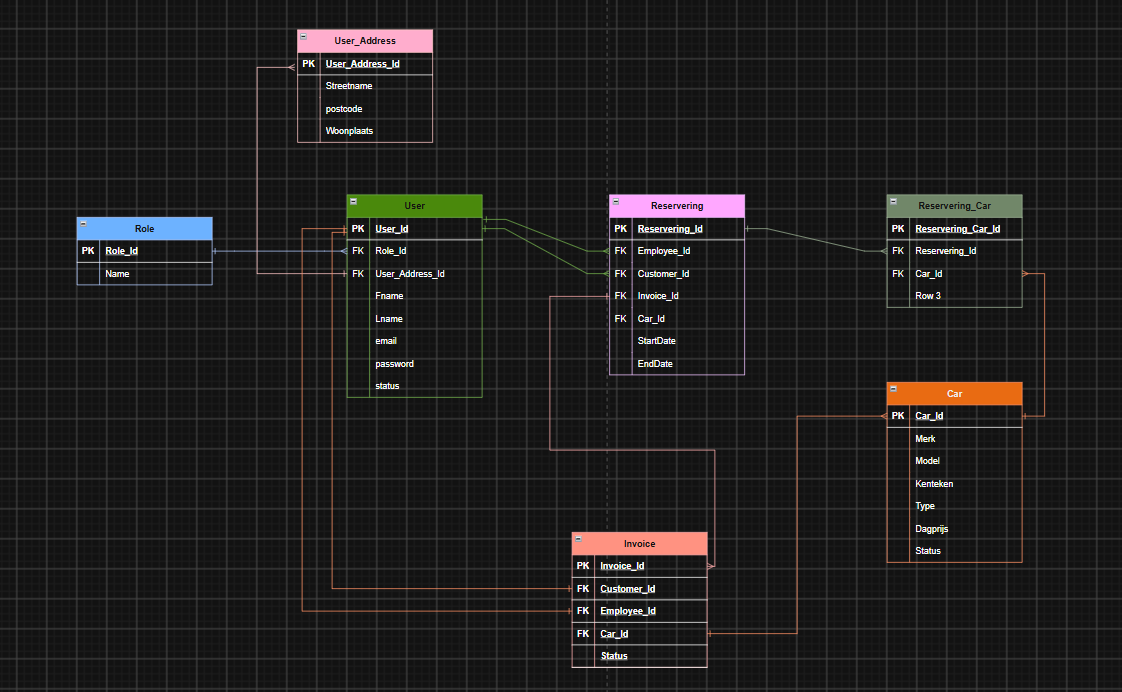
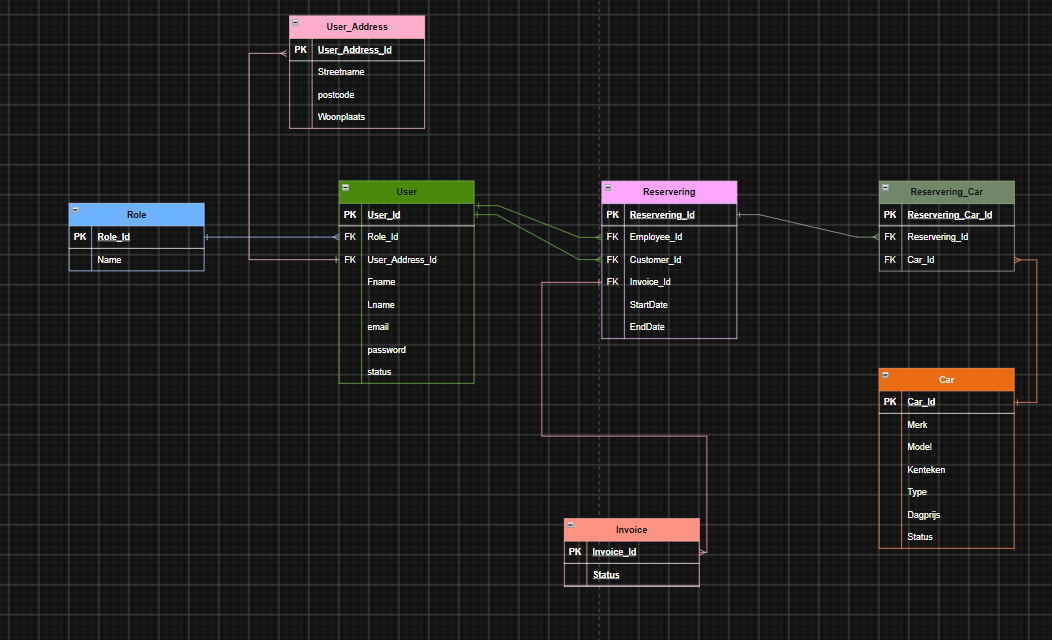
Kleine verbeteringen aan mijn ERD en pva delen

diff --git a/PVA.md b/PVA.md
@@ -42,7 +42,10 @@ Stijn: Klant
 ## Opdrachts beschrijving
 Gemaakt door: Stijn
 
-Voor de casus die we van meneer Asbreuk hebben gekregen is het de bedoeling dat wij een werkende C# applicatie opleveren gebouwd in Windows Forms, deze applicatie moet connected zijn met een SQL-database. De applicatie moet ontwikkeld worden vanuit het perspectief van 3 kanten; klant, medewerker, beheerder. Hierbij heeft elke kant zijn eigen onderdelen en obstakels.
+Voor de casus die we van meneer Asbreuk hebben gekregen is het de bedoeling dat wij een werkende C# applicatie opleveren gebouwd in Windows Forms, deze applicatie moet connected zijn met een SQL-database. 
+De applicatie moet ontwikkeld worden vanuit het perspectief van 3 kanten: 
+klant, medewerker, beheerder. 
+Hierbij heeft elke kant zijn eigen onderdelen en obstakels.
 
 
 ## Functioneel ontwerp
@@ -102,6 +105,8 @@ Gemaakt door: Wiebe
 	- C#
 	- MySQL 
 	- Git en github
+	- Visual studio
+	- Laptop met ssd en internet
 	
 ### Omschrijving
 Het moet een C# winforms applicatie worden die data ophaalt uit een mysql database.  
@@ -127,7 +132,6 @@ Verwijderen van dingen moet net zoals Laravel's "SoftDelete" werken, oftewel:
 - Factuur moet aangemaakt worden en een pdf invoice maken met QuestPDF library.  
 - Factuur moet dan in mysql worden opgeslagen.  
 - Factuur moet een unieke ID krijgen, willekeurige reeks van 8 karakters (a-z, A-Z, 0-9, en '!' etc)
-resultaat daarvan is 8^72=1.0531229166855719e+65 combinaties
 
 ### Beveiliging
 Gebruikers moeten alleen bij hun eigen data kunnen.
@@ -152,10 +156,10 @@ Gemaakt door: Wiebe
 | Risico | Gevolg | Maatregel |
 |:--:|:--:|:--:|
 | Merge conflict | Programma stopt met werken | Aparte branches voor iedereen
-| Afwezigheid vanwege ziekte | Persoon kan werk mogelijk niet doen | Persoon toch het werk laten doen
+| Afwezigheid vanwege ziekte | Persoon kan werk mogelijk niet doen | Ander persoon doet het werk
 | Gebrek aan communicatie in het team | Mensen werken niet aan de juiste taak | Stand-up op dinsdag en vrijdag 's ochtens
 | Onvoldoende tijd besteed aan testen | Programma werkt niet | Automatische tests maken in github en in c# met bijv. xunit
-| Achterlopen op de planning | Het project is mogelijk niet op tijd af | Samen kijken waarom we achterlopen en het oplossen
+| Achterlopen op de planning | Het project is mogelijk niet op tijd af | Samen kijken waarom we achterlopen, bespreken met product owner, en het oplossen
 
 
 ## Wiebe erd
